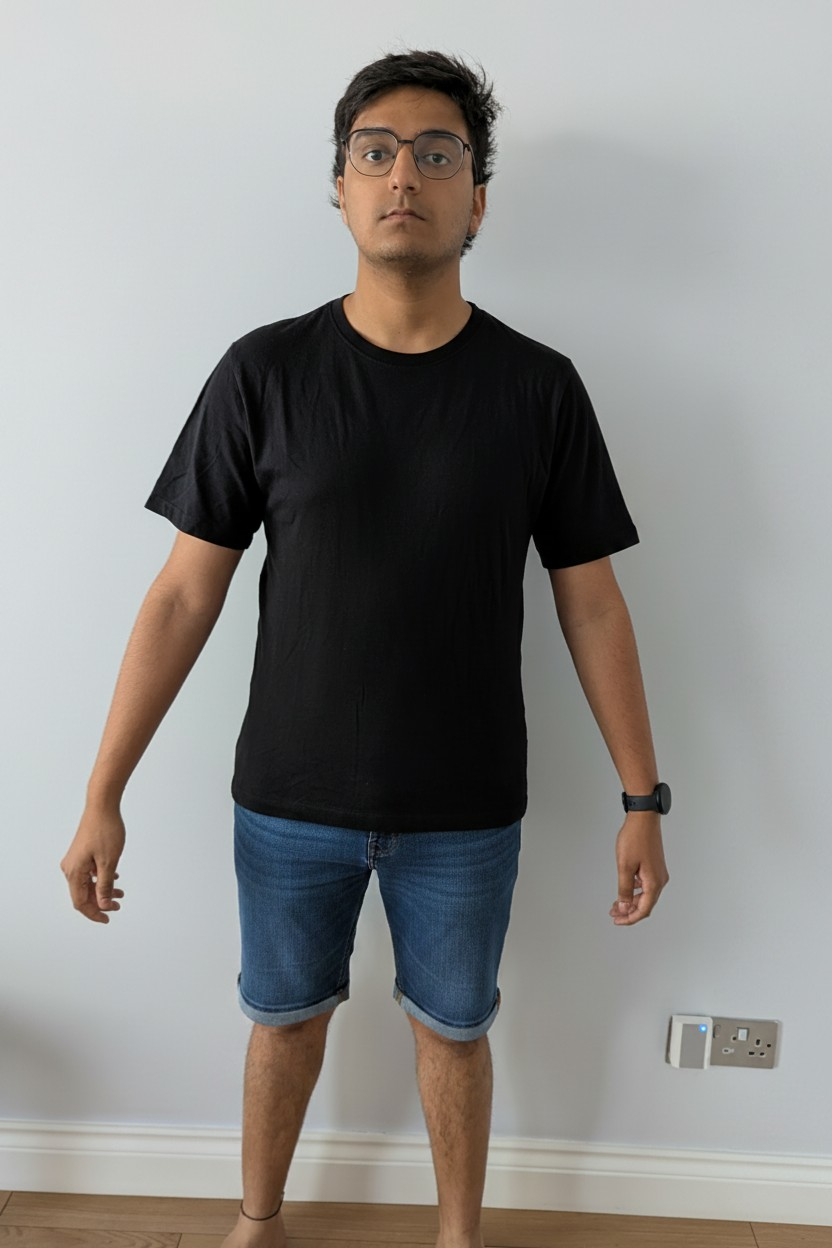
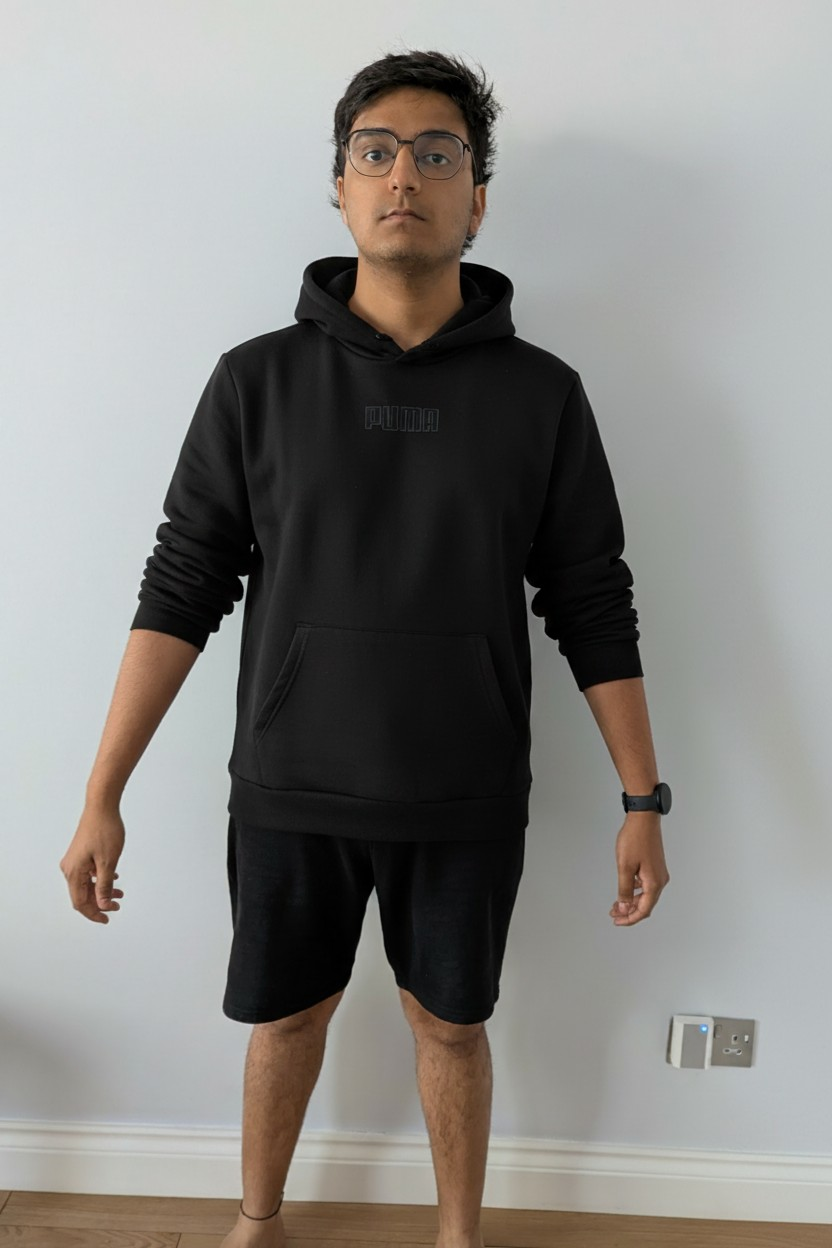
Made changes to the prompt

diff --git a/image_generation.py b/image_generation.py
@@ -62,14 +62,14 @@ def showImageWithCloudflare(data):
 def showImageWithPollinations(images, recommendation):
     print(images["Top"])
     print(images["Bottom"])
-    #top = recommendation["primary_outfit"]["top"]
-    #bottom = recommendation["primary_outfit"]["bottom"]
+    top = recommendation["primary_outfit"]["top"]
+    bottom = recommendation["primary_outfit"]["bottom"]
     files = [
         ("image", open("images/user.jpg", "rb")),
-        ("image", open("images/blue-quarter-zip.jpg", "rb")),
-        ("image", open("images/brown-chinos.jpg", "rb")),
-        #("image", open(images["Top"], "rb")),
-        #("image", open(images["Bottom"], "rb")),
+        #("image", open("images/blue-quarter-zip.jpg", "rb")),
+        #("image", open("images/brown-chinos.jpg", "rb")),
+        ("image", open(images["Top"], "rb")),
+        ("image", open(images["Bottom"], "rb")),
     ] # Multipart-form data
     #mainTop = data["primary_outfit"]["top"]
     #mainBottoms = data["primary_outfit"]["bottom"]
@@ -77,7 +77,8 @@ def showImageWithPollinations(images, recommendation):
                 The first image is the person to edit. Keep this exact person, including their face, hairstyle, skin tone, body shape, pose, camera angle and background. Do not change their identity.
                 Replace the person's current top with the exact garment shown in the second reference image, which is a {top}. Match the sleeve length, collar, fit, colour, fabric and design as closely as possible.
                 The third image is the reference for the bottom. Replace the person's current bottom with the bottom shown in the third image, which are {bottom}.
-                Recreate the clothing as accurately as possible, including its colour, design, logos, fit and style. Only change the clothing. Keep everything else exactly the same. Produce a photorealistic, full-body image showing the person's shoes and both feet.
+                Recreate the clothing as accurately as possible, including its colour, design, logos, fit and style. Only change the clothing. Don't add any folds to the clothes, keep them exactly how they are presented in the images!
+                Keep everything else exactly the same. Produce a photorealistic, full-body image showing the person's shoes and both feet.
                 Preserve the original full-body composition and the output must show the person from head to toe. Do not crop or zoom the person, keep the image as it was!!"""
     #userImage = getUserImage()
     #testPrompt = "Replace the person's top with the sweatshirt shown in the reference image. Replace the bottoms with blue jeans"

diff --git a/clothing_recommendation.py b/clothing_recommendation.py
@@ -33,7 +33,7 @@ def generateLLMResponse(weather, temperature, location, clothes):
 }"""
     llmResponse = client.models.generate_content_stream(
         model = "gemini-3.5-flash",
-        contents = f"I am currently in {location}. The weather is {weather} and it is {temperature} degrees celsius. Here is a list of the clothes that I own : {clothes}. Here are the events that I have today {GoogleCalendar.main()}. Based on this, give me 2 outfit recommendations using the clothes that I have - 1 outfit that would suit the weather conditions and the events I have today perfectly, and 1 backup option. If necessary, I can pack a bag with another set of clothes if an event I have requires a change of clothes, but don't include multiple outfit changes - I can only take 1 bag with 1 outfit inside! Give me a confidence score out of 10 for both of these options. Don't add extra details about the clothes, only use the details that are provided. Return your response in a JSON format like this: {jsonFormat}. Return only the JSON object. Don't include markdown or any explanations!"
+        contents = f"I am currently in {location}. The weather is {weather} and it is {temperature} degrees celsius. Here is a list of the clothes that I own : {clothes}. Here are the events that I have today {GoogleCalendar.main()}. Based on this, give me 2 outfit recommendations using the clothes that I have - 1 outfit that would suit the weather conditions and the events I have today perfectly, and 1 backup option. If necessary, I can pack a bag with another set of clothes if an event I have requires a change of clothes, but don't include multiple outfit changes - I can only take 1 bag with 1 outfit inside! The colour of the clothing should be considered when making a decision - both the top and bottom ideally shouldn't be the same unless required. Give me a confidence score out of 10 for both of these options. Don't add extra details about the clothes, only use the details that are provided. Return your response in a JSON format like this: {jsonFormat}. Return only the JSON object. Don't include markdown or any explanations!"
     )
 
     output = ""

diff --git a/main.py b/main.py
@@ -33,7 +33,7 @@ def main():
     weatherData = weather.getWeather(city)
     clothes = wardrobe.getClothes()
 
-    recommendation = c_r.generateLLMResponse(weatherData["weather"], weatherData["temperature"], city, clothes)
+    recommendation = c_r.generateLLMResponse(weatherData["Weather"], weatherData["Temperature"], city, clothes)
     
     userWardrobe = wardrobe.loadWardrobe()
 

diff --git a/wardrobe.py b/wardrobe.py
@@ -9,7 +9,7 @@ def getClothes():
             newRow = ",".join(row)
             clothesString = clothesString + newRow + "\n"
     return clothesString
-location = input("Enter a city : ")
+
 
 
 def loadWardrobe():
